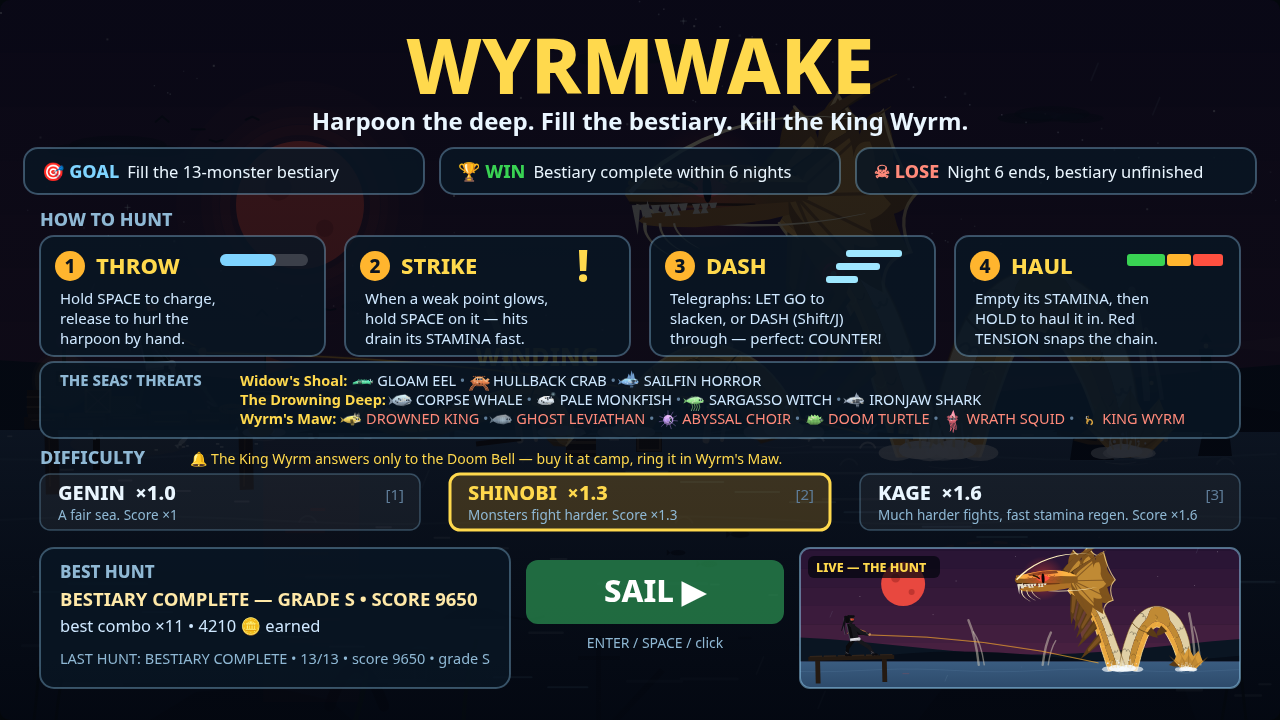
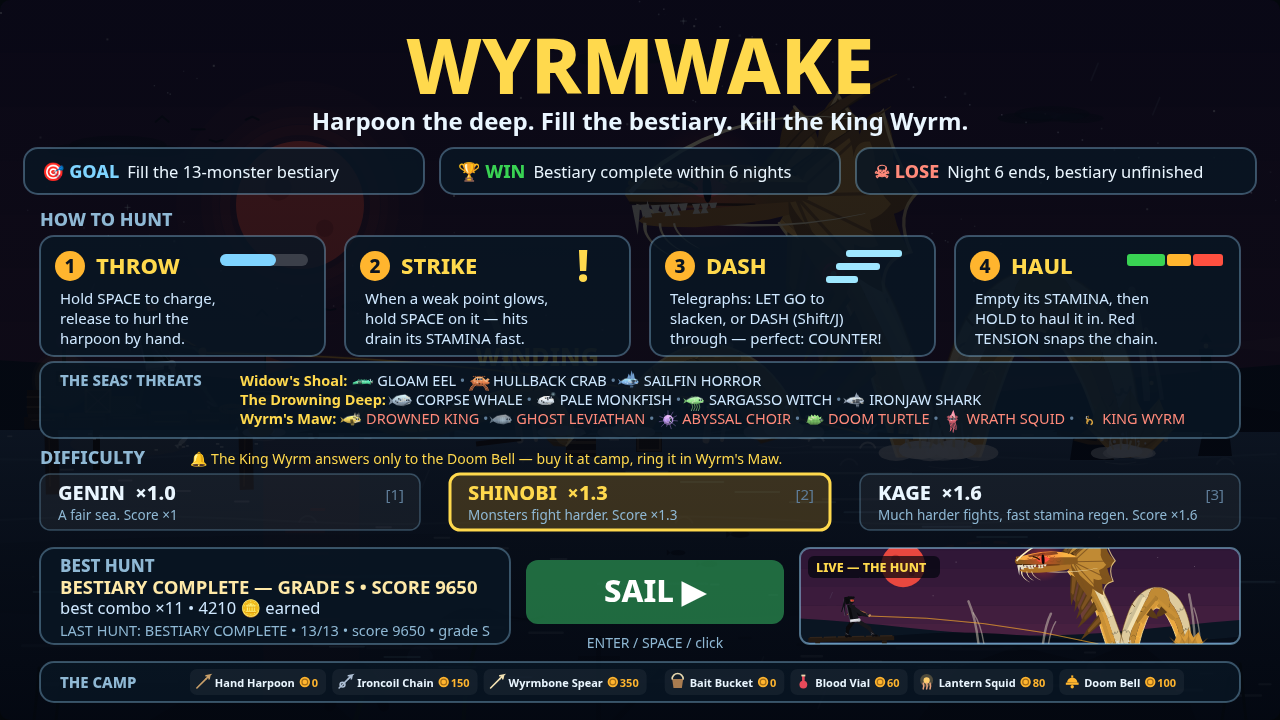
WYRMWAKE: painted texture + camp shelf on the briefing

Changed region(s): [[0.0312, 0.7639, 0.9688, 0.9778]]

diff --git a/game/src/briefing.js b/game/src/briefing.js
@@ -7,7 +7,7 @@ import { text, panel, rr } from './ui.js';
 import { drawWorld } from './render.js';
 import { drawFishShape } from './vendor/shapes.js';
 import { drawWyrmGlyph } from './vendor/wyrm.js';
-import { screenTexture } from './vendor/screens.js';
+import { screenTexture, drawCampShelf } from './vendor/screens.js';
 
 export function briefingLayout() {
   const diffs = DIFFICULTIES.map((d, i) => ({ idx: i, x: 40 + i * 410, y: 474, w: 380, h: 56 }));
@@ -34,14 +34,15 @@ function stepCard(ctx, x, n, title, lines, icon) {
 }
 
 function drawDemoWindow(ctx, demo, view) {
-  const { x, y, w, h } = { x: 800, y: 548, w: 440, h: 140 };
+  const { x, y, w, h } = { x: 800, y: 548, w: 440, h: 96 };
   ctx.save();
   rr(ctx, x, y, w, h, 10);
   ctx.clip();
   // frame the action: the slice from the moon's sky down through the
-  // waterline, where the hunt in the window is actually happening
+  // waterline — the window is shallower now (the camp shelf took the
+  // bottom band), so the slice starts lower, still moon and water
   const s = w / 1280;
-  ctx.translate(x, y - 100 * s);
+  ctx.translate(x, y - 155 * s);
   ctx.scale(s, s);
   drawWorld(ctx, demo, view, true); // lite: at this size the fine scenery is mush
   ctx.restore();
@@ -143,19 +144,20 @@ export function drawBriefing(ctx, sel, best, last, demo, view) {
     text(ctx, `[${d.idx + 1}]`, d.x + d.w - 16, d.y + 26, 15, '#5f7d99', 'right', 400);
   }
 
-  // BEST panel + the last hunt, bottom left
-  panel(ctx, 40, 548, 470, 140, 0.8);
-  text(ctx, 'BEST HUNT', 60, 578, 17, '#8fb8d4', 'left', 800);
+  // BEST panel + the last hunt, bottom left — tightened leading
+  // for the camp shelf below
+  panel(ctx, 40, 548, 470, 96, 0.8);
+  text(ctx, 'BEST HUNT', 60, 572, 17, '#8fb8d4', 'left', 800);
   if (best && best.result) {
-    text(ctx, `${best.result} — GRADE ${best.grade || '—'} • SCORE ${best.score || 0}`, 60, 606, 18.5, '#ffe9a8');
-    text(ctx, `best combo ×${best.combo} • ${best.coins} 🪙 earned`, 60, 632, 16.5, '#cfe8ff', 'left', 400);
+    text(ctx, `${best.result} — GRADE ${best.grade || '—'} • SCORE ${best.score || 0}`, 60, 594, 18.5, '#ffe9a8');
+    text(ctx, `best combo ×${best.combo} • ${best.coins} 🪙 earned`, 60, 614, 16.5, '#cfe8ff', 'left', 400);
   } else {
-    text(ctx, 'No hunts yet — the bestiary is unwritten.', 60, 606, 17, '#cfe8ff', 'left', 400);
+    text(ctx, 'No hunts yet — the bestiary is unwritten.', 60, 594, 17, '#cfe8ff', 'left', 400);
   }
   if (last && last.result) {
-    text(ctx, `LAST HUNT: ${last.result} • ${last.species}/13 • score ${last.score} • grade ${last.grade}`, 60, 664, 14.5, '#8fb8d4', 'left', 400);
+    text(ctx, `LAST HUNT: ${last.result} • ${last.species}/13 • score ${last.score} • grade ${last.grade}`, 60, 636, 14.5, '#8fb8d4', 'left', 400);
   } else {
-    text(ctx, 'LAST HUNT: —', 60, 664, 15.5, '#5f7d99', 'left', 400);
+    text(ctx, 'LAST HUNT: —', 60, 636, 15.5, '#5f7d99', 'left', 400);
   }
 
   // the SAIL button
@@ -170,4 +172,8 @@ export function drawBriefing(ctx, sel, best, last, demo, view) {
   text(ctx, 'ENTER / SPACE / click', sail.x + sail.w / 2, sail.y + 88, 14, '#8fb8d4', 'center', 400);
 
   drawDemoWindow(ctx, demo, view);
+
+  // the camp shelf along the bottom: the arsenal, priced from the
+  // game's own tables (vendor/screens.js)
+  drawCampShelf(ctx);
 }
